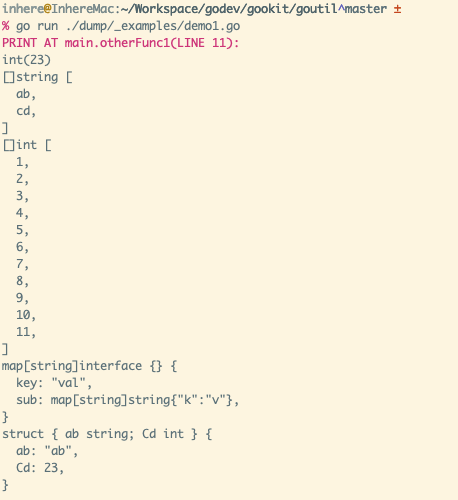
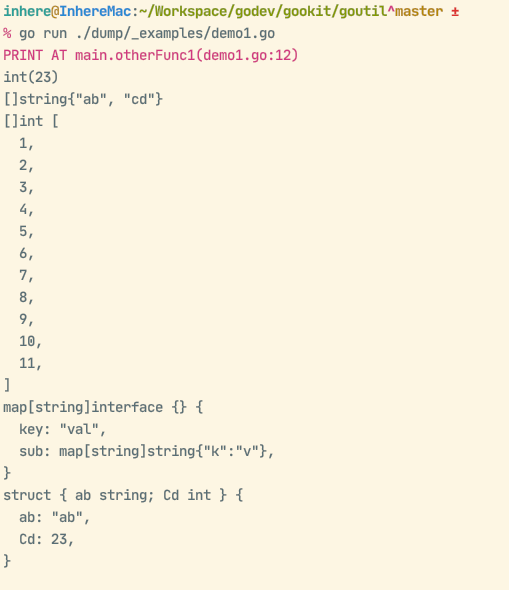
up: modify some logic for print vars

Changed region(s): [[0.0, 0.0, 0.917, 0.99], [0.2445, 0.15, 0.3362, 0.18]]

diff --git a/dump/dump.go b/dump/dump.go
@@ -5,35 +5,48 @@ import (
 	"fmt"
 	"io"
 	"os"
+	"path"
 	"reflect"
 	"runtime"
+	"strconv"
+	"strings"
 
 	"github.com/gookit/color"
 )
 
+// These flags define which print information
+const (
+	Fnopos = 1 << iota // no position
+	Ffunc
+	Ffile
+	Ffname
+	Fline
+)
+
 type dumpConfig struct {
-	ShowMethod bool
-	ShowFile   bool
-	NoPosition bool
-	NoColor    bool
+	NoColor  bool
+	ShowFlag int
 	// MoreLenNL array/slice elements length > MoreLenNL, will wrap new line
 	MoreLenNL int
 }
+
+var flags = []int{Ffunc, Ffile, Ffname, Fline}
 
 // Output set print content to the io.Writer
 var Output io.Writer = os.Stdout
 
 // Config dump data settings
-var Config = dumpConfig{
-	ShowMethod: true,
-	MoreLenNL:  8,
-}
+var Config = newDefaultConfig()
 
 // ResetConfig reset config data
 func ResetConfig() {
-	Config = dumpConfig{
-		ShowMethod: true,
-		MoreLenNL:  8,
+	Config = newDefaultConfig()
+}
+
+func newDefaultConfig() dumpConfig {
+	return dumpConfig{
+		ShowFlag:  Ffunc | Ffname | Fline,
+		MoreLenNL: 8,
 	}
 }
 
@@ -60,7 +73,7 @@ func Println(vs ...interface{}) {
 // Fprint like fmt.Println, but the output is clearer and more beautiful
 func Fprint(skip int, w io.Writer, vs ...interface{}) {
 	// show print position
-	if !Config.NoPosition {
+	if Config.ShowFlag != Fnopos {
 		// get the print position
 		pc, file, line, ok := runtime.Caller(skip)
 		if ok {
@@ -75,14 +88,42 @@ func Fprint(skip int, w io.Writer, vs ...interface{}) {
 }
 
 func printPosition(w io.Writer, pc uintptr, file string, line int) {
-	var text string
+	// eg: github.com/gookit/goutil/dump.ExamplePrint
 	fnName := runtime.FuncForPC(pc).Name()
 
-	if Config.ShowFile {
-		text = fmt.Sprint("PRINT AT ", fnName, "(", file, " LINE ", line, "):")
-	} else {
-		text = fmt.Sprint("PRINT AT ", fnName, "(LINE ", line, "):")
+	lineS := strconv.Itoa(line)
+	nodes := []string{"PRINT AT "}
+
+	// eg:
+	// "PRINT AT github.com/gookit/goutil/dump.ExamplePrint(goutil/dump/dump_test.go:23)"
+	// "PRINT AT github.com/gookit/goutil/dump.ExamplePrint(dump_test.go:23)"
+	// "PRINT AT github.com/gookit/goutil/dump.ExamplePrint(:23)"
+	for _, flag := range flags {
+		// has flag
+		if Config.ShowFlag&flag == 0 {
+			continue
+		}
+		switch flag {
+		case Ffunc: // full func name
+			nodes = append(nodes, fnName, "(")
+		case Ffile: // full file path
+			nodes = append(nodes, file)
+		case Ffname: // only file name
+			fName := path.Base(file) // file name
+			nodes = append(nodes, fName)
+		case Fline:
+			nodes = append(nodes, ":", lineS)
+		}
 	}
+
+	// fallback. eg: "PRINT AT goutil/dump/dump_test.go:23"
+	if len(nodes) == 1 {
+		nodes = append(nodes, file, ":", lineS)
+	} else if Config.ShowFlag & Ffunc != 0 { // has func, add ")"
+		nodes = append(nodes, ")")
+	}
+
+	text := strings.Join(nodes, "")
 
 	if Config.NoColor {
 		mustFprint(w, text, "\n")

diff --git a/dump/dump_test.go b/dump/dump_test.go
@@ -63,12 +63,13 @@ func TestPrint(t *testing.T) {
 	buf := new(bytes.Buffer)
 
 	Fprint(1, buf, 123)
+	// "PRINT AT github.com/gookit/goutil/dump.TestPrint(dump_test.go:65)"
 	str := buf.String()
-	is.Contains(str, "PRINT AT github.com/gookit/goutil/dump.TestPrint(LINE ")
+	is.Contains(str, "PRINT AT github.com/gookit/goutil/dump.TestPrint(dump_test.go:")
 	is.Contains(str, "int(123)")
 
 	// disable position for test
-	Config.NoPosition = true
+	Config.ShowFlag = Fnopos
 
 	buf.Reset()
 	Fprint(1, buf, "abc")
@@ -127,7 +128,7 @@ func TestPrintNil(t *testing.T) {
 	// set output for test
 	Output = buf
 	// disable position for test
-	Config.NoPosition = true
+	Config.ShowFlag = Fnopos
 
 	Print(nil)
 	is.Equal("<nil>\n", buf.String())
@@ -144,8 +145,7 @@ func TestPrintNil(t *testing.T) {
 	buf.Reset()
 
 	// reset
-	Output = os.Stdout
-	ResetConfig()
+	resetDump()
 }
 
 func TestPrintPtr(t *testing.T) {
@@ -155,6 +155,14 @@ func TestPrintPtr(t *testing.T) {
 		Age  int
 	}{}
 	P(user)
+
+	// Out:
+	// PRINT AT github.com/gookit/goutil/dump.TestPrintPtr(dump_test.go:157)
+	// *struct { id string; Name string; Age int } {
+	//  id: "",
+	//  Name: "",
+	//  Age: 0,
+	// }
 }
 
 func TestConfig(t *testing.T) {
@@ -162,16 +170,22 @@ func TestConfig(t *testing.T) {
 	buf := new(bytes.Buffer)
 
 	Output = buf
-
-	// show file
-	Config.ShowFile = true
+	// no color on tests
 	Config.NoColor = true
 
+	// show file
+	Config.ShowFlag = Ffile|Fline
+
 	P("hi")
-	is.Contains(buf.String(), "goutil/dump/dump_test.go LINE 1")
+	// PRINT AT /Users/inhere/Workspace/godev/gookit/goutil/dump/dump_test.go:171
+	is.Contains(buf.String(), "goutil/dump/dump_test.go:1")
 	buf.Reset()
 
 	// reset
+	resetDump()
+}
+
+func resetDump() {
 	Output = os.Stdout
 	ResetConfig()
 }

diff --git a/dump/_examples/demo1.go b/dump/_examples/demo1.go
@@ -2,7 +2,8 @@ package main
 
 import "github.com/gookit/goutil/dump"
 
-// rum demo: go run ./dump/_examples/demo1.go
+// rum demo:
+// 	go run ./dump/_examples/demo1.go
 func main() {
 	otherFunc1()
 }
